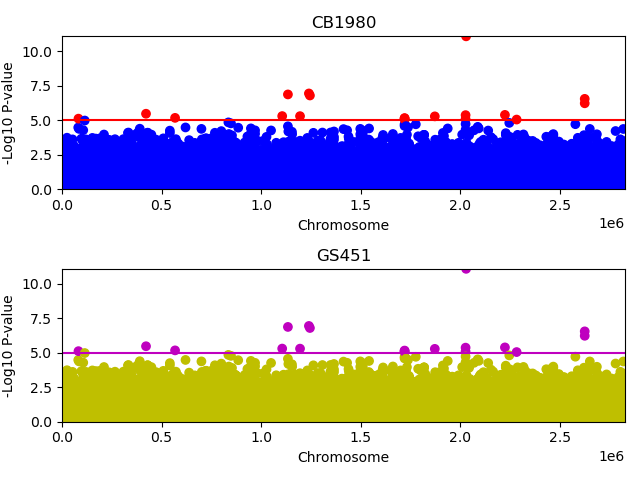
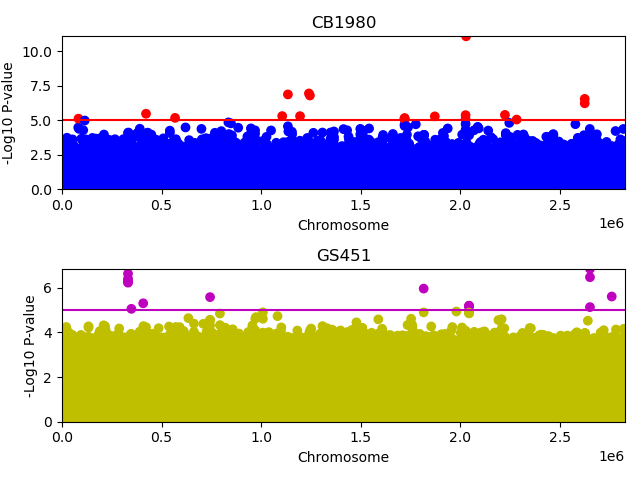
Final Answers

diff --git a/week6/plotting.py b/week6/plotting.py
@@ -40,8 +40,10 @@ plt.close(fig)
 cb_gwas = pd.read_csv('cb_gwas.assoc.linear', delim_whitespace=True)
 gs_gwas = pd.read_csv('gs_gwas.assoc.linear', delim_whitespace=True)
 
+
+
 cb_p = cb_gwas["P"]
-gs_p = cb_gwas["P"]
+gs_p = gs_gwas["P"]
 length = len(cb_p)
 cb_10p = -(np.log10(cb_p))
 gs_10p = -(np.log10(gs_p))
@@ -76,17 +78,6 @@ start = 0
 chromosome_lengths = (createList(start, length))
 
 
-
-
-"""
-fig,(ax) = plt.subplots() 
-ax.set_title( "CB1980" )
-ax.scatter(chromosome_lengths, cb_10p)
-ax.set_xlabel("Chromosome")
-ax.set_ylabel("-Log10 P-value")
-plt.show()
-"""
-
 fig, (ax) = plt.subplots(2) 
 ax[0].set_title( "CB1980" )
 ax[0].scatter(chromosome_lengths, cb_10p, c = color_cb)
@@ -105,20 +96,113 @@ plt.show()
 fig.savefig( "manhattan.png" )
 plt.close(fig)
 
+highest_snp = (min(cb_p))
+
+index = 0
+for value in cb_p:
+    if value == 8.199e-12:
+        print(index)
+    index += 1
+#2028444
+#print(cb_gwas.iloc[[2028444]])
+#snp of interest is rs10876043
+
+
+genotypes = pd.read_csv('genotypes.vcf', delimiter = '\t', skiprows = 27)
+#print(genotypes)
+
+#how do we specify a specific snp to sort for mutations in?
+#in a for loop and then do we need to know the header for the columns? like what's 1169_1169?
+
+
+SNPs = genotypes["ID"]
+index = 0
+for value in SNPs:
+    if value == 'rs10876043':
+        print(index)
+    index = index + 1
+#index call for genotype data is 184404
+
+snp_interest_row = genotypes.iloc[184404]
+#print(snp_interest_row)
+
+#print(snp_interest_row.head(20)) #skip first 9 rows
+
+mod_snp_row = snp_interest_row.iloc[9:]
+#print(mod_snp_row)
+
+genotypes = []
+for row in mod_snp_row:
+    if row != "./.":
+        genotypes.append(row)
+
+
+big_phenotypes = pd.read_csv("CB1908_IC50.txt", delim_whitespace=True)
+phenotypes = big_phenotypes["CB1908_IC50"]
 
 
 
+wt = []
+het = []
+mut = []
+
+index = 0
+for value in genotypes:
+    if value == "0/0":
+        wt.append(phenotypes.iloc[index])
+    if value == "0/1":
+        het.append(phenotypes.iloc[index])
+    if value == "1/1":
+        mut.append(phenotypes.iloc[index])
+    index = index + 1
 
 
 
+het_mod = []
+mylabels = ["Wildtype", "Heterozygous", "Homozygous Mutant"]
+
+for i in range(len(het)):
+    if str(het[i]) == 'nan':
+        continue
+    else:
+        het_mod.append(het[i])
+
+data = [wt, het_mod, mut]
+
+fig,(ax) = plt.subplots() 
+ax.set_title( "Effect Size" )
+ax.boxplot(data, labels = mylabels)
+ax.set_xlabel("Genotype")
+ax.set_ylabel("IC_50")
+plt.show()
+fig.savefig( "effect_size.png" )
+plt.close(fig)
 
 
+#finding the top loci:
+highest_snp = (min(cb_p))
+
+index = 0
+for value in cb_p:
+    if value == 8.199e-12:
+        print(index)
+    index += 1
+#2028444
+#print(cb_gwas.iloc[[2028444]])
+#snp of interest is rs10876043
+#bp chrm 12 @ 49,190,411 (DIP2B gene)
 
 
+highest_snp_gs = (min(gs_p))
+#print(highest_snp_gs)
 
 
-
-
-
-
+index = 0
+for value in gs_p:
+    if value == 1.43e-07:
+        print(index)
+    index += 1
+#2650065
+#print(gs_gwas.iloc[[2650065]])
+#bp chrm 19 @ 20,372,113 (ZNF826)
 

diff --git a/week6/README.md b/week6/README.md
@@ -1,0 +1,18 @@
+plink --vcf genotypes.vcf --recode --out ped_map_myfile
+
+plink --file ped_map_myfile --pca 10 --out varaints
+
+plink --vcf genotypes.vcf --freq
+
+plink --vcf genotypes.vcf --linear --pheno CB1908_IC50.txt --covar varaints.eigenvec --allow-no-sex --out cb_gwas
+
+plink --vcf genotypes.vcf --linear --pheno GS451_IC50.txt --covar varaints.eigenvec --allow-no-sex --out gs_gwas
+
+CB data: The gene DIP2B was the closest associated with the top loci hit from my GWAS analysis. This gene encodes the disco interacting protein 2 homolog B which so
+far has been speculated to be invovled in DNA methylation since it has a biding site for DNA methyltrasnferase and AMP binding sites. If this gene is mutated, it could
+lead to abberrant DNA methylation which represses transcription of genes nearby the methylation site and recruits chromatin remodelers. Therefore, the mutant phenotype that we see os most likely due to a mutation whic inhbits DIP2B's ability to promote the methylation of DNA, therefore genes that are suppsoed to be turned off remain on causing
+the observed mutant phenotype. Interestingly, this specific gene is noted in NCBI as being sensitive to folate, which could also alter the expression of DIP2B (citation: https://www.ncbi.nlm.nih.gov/gene/57609). 
+
+GS data: The gene ZNF826 was the closes associated with the top loci from my GWAS analysis. This gene encodes the zinc finger protein 826. Zinc finger proteins are significant because zinc finger domains often indicate that a protein binds to DNA- say for example like a transcription factor. These proteins commonly consits of two beta sheets with an alpha helix in the middle and the alpha helix gives the protein specificty to bind to a specific region of DNA while the zinc ion stabilizes this shape. This particular protein has been thought to be involved in regulationn of transcription (citation: https://www.ncbi.nlm.nih.gov/gene/?term=ZNF826). Therefore, any mutation in this protein could impact the transcription of a variety of other genes as well and lead to a very signficant phenotype. 
+
+
